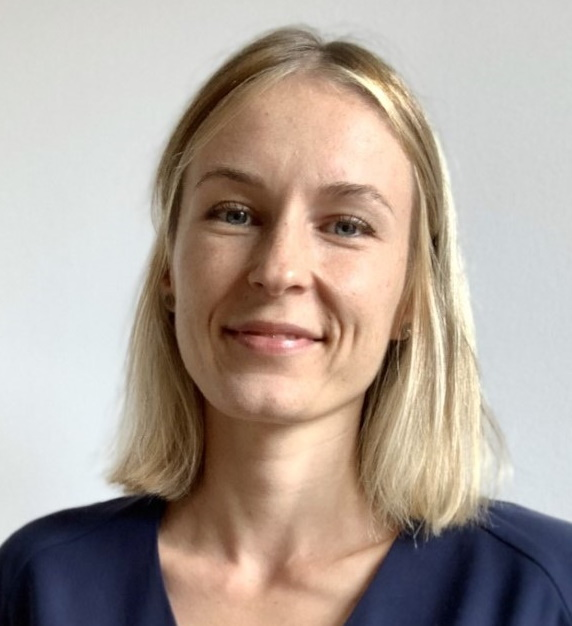
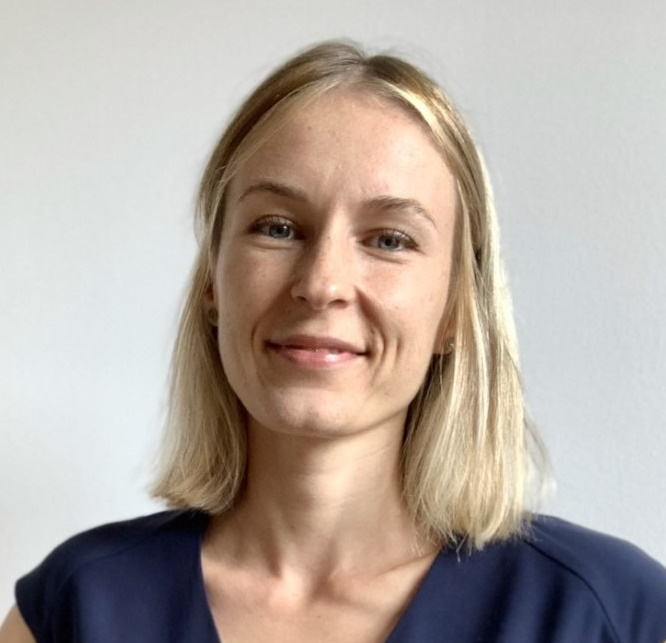
modified kinga's profile

diff --git a/content/team/kinga.md b/content/team/kinga.md
@@ -1,20 +1,20 @@
 ---
 title: 'Kinga Bernatowicz'
 date: 2018-11-18T12:33:46+10:00
-icon: 'team/Kinga_small.jpg'
+icon: 'team/kinga_small.jpg'
 draft: false
 featured: true
 weight: 2
 heroHeading: 'Kinga Bernatowicz'
 heroSubHeading: 'Senior Postdoctoral Researcher'
-heroBackground: 'team/team1.jpg'
+heroBackground: 'team/kinga_back.jpg'
 ---
 
-Postdoctoral researcher with engineering and medical physics knowledge, data analysis, machine learning and software development expertise, motivated to find creative solutions to improve cancer patient care.
+Kinga received M.Sc. and Ph.D. degrees from [ETH Zurich](https://ethz.ch). Working with Tony Lomax at the [Paul Scherrer Institute](https://psi.ch) and later as a post-doc at [UCLouvain](https://uclouvain.be), she contributed to the development of respiratory-motion-adapted imaging and delivery technologies for proton therapy of cancer patients. As a senior post-doc at the [Vall d'Hebron Institute of Oncology](https://www.vhio.net/), she was awarded an MSCA-COFUND grant [Beatriu de Pinos](https://agaur.gencat.cat/en/Beatriu-de-Pinos/) to focus on investigating tumor heterogeneity and developing a multi-omics signature for predicting response to immunotherapy. 
 
-[LinkedIn](https://www.linkedin.com/in/kinga-bernatowicz-8091b2a6/)
-
-[Twitter @KingaBarcelona](https://twitter.com/KingaBarcelona)
-
-[kbernatowicz@vhio.net](mailto:kbernatowicz@vhio.net)
-
+### Links and contact
+- LinkedIn [profile](https://www.linkedin.com/in/kinga-bernatowicz-8091b2a6/);
+- Google Scholar [page](https://scholar.google.com/citations?user=Zj5Vt3YAAAAJ&hl=en&oi=ao);
+- ORCID [page](https://orcid.org/0000-0001-9166-1709); 
+- Twitter [@KingaBarcelona](https://twitter.com/KingaBarcelona);
+- Email [kbernatowicz@vhio.net](mailto:kbernatowicz@vhio.net).

diff --git a/content/homepage/about.md b/content/homepage/about.md
@@ -1,9 +1,9 @@
 ---
-title: 'Our Difference'
+title: 'Our Origin'
 weight: 2
 background: ''
 button: 'About Us'
 buttonLink: 'about'
 ---
 
-Text about us.
+Would you like to find out more about our group?
